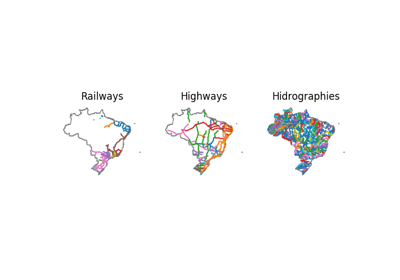
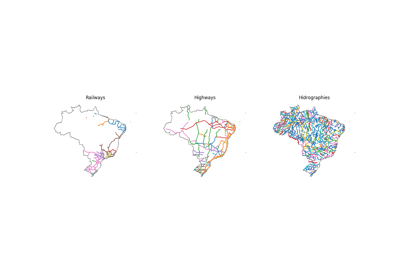
updated docs

Changed region(s): [[0.66, 0.3143, 0.87, 0.6286], [0.39, 0.3143, 0.6, 0.6286], [0.12, 0.3143, 0.33, 0.6286]]

diff --git a/docs/source/examples/plot_rio_de_janeiro_districts.py b/docs/source/examples/plot_rio_de_janeiro_districts.py
@@ -10,7 +10,6 @@ Rio de Janeiro (city) districts
 # We will use a `server <https://pgeo3.rio.rj.gov.br/arcgis/rest/services/>`__ that
 # provides data on the city of Rio de Janeiro. Let's, for example, plot the district
 # divisions.
-# 
 
 from mapsbr import arcgis
 
@@ -27,6 +26,11 @@ plt.title("Rio de Janeiro city districts")
 plt.gca().axis("off")
 
 ###############################################################################
+# .. note:
+#
+#    This function unfortunately is considerably unreliable and only tested
+#    in these two hosts. I'll surely put some work on improving it.
+#
 # From the same service, you could also plot some interesting things like
 # the geographical distribution of municipal hospitals.
 

diff --git a/docs/source/gallery/plot_rio_de_janeiro_districts.py b/docs/source/gallery/plot_rio_de_janeiro_districts.py
@@ -10,7 +10,6 @@ Rio de Janeiro (city) districts
 # We will use a `server <https://pgeo3.rio.rj.gov.br/arcgis/rest/services/>`__ that
 # provides data on the city of Rio de Janeiro. Let's, for example, plot the district
 # divisions.
-# 
 
 from mapsbr import arcgis
 
@@ -27,6 +26,11 @@ plt.title("Rio de Janeiro city districts")
 plt.gca().axis("off")
 
 ###############################################################################
+# .. note:
+#
+#    This function unfortunately is considerably unreliable and only tested
+#    in these two hosts. I'll surely put some work on improving it.
+#
 # From the same service, you could also plot some interesting things like
 # the geographical distribution of municipal hospitals.
 

diff --git a/docs/source/examples/plot_hidrographies_and_roads.py b/docs/source/examples/plot_hidrographies_and_roads.py
@@ -51,7 +51,7 @@ titles = ["Railways", "Highways", "Hidrographies"]
 
 import matplotlib.pyplot as plt
 
-fig, axes = plt.subplots(nrows=1, ncols=3)
+fig, axes = plt.subplots(nrows=1, ncols=3, figsize=(15, 10))
 br = ibgemaps.get_map("BR")
 for ax, transport, title in zip(axes.flat, transports, titles):
     br.plot(ax=ax, color="white", edgecolor="gray")

diff --git a/docs/source/gallery/plot_hidrographies_and_roads.py b/docs/source/gallery/plot_hidrographies_and_roads.py
@@ -51,7 +51,7 @@ titles = ["Railways", "Highways", "Hidrographies"]
 
 import matplotlib.pyplot as plt
 
-fig, axes = plt.subplots(nrows=1, ncols=3)
+fig, axes = plt.subplots(nrows=1, ncols=3, figsize=(15, 10))
 br = ibgemaps.get_map("BR")
 for ax, transport, title in zip(axes.flat, transports, titles):
     br.plot(ax=ax, color="white", edgecolor="gray")

diff --git a/docs/source/conf.py b/docs/source/conf.py
@@ -44,6 +44,7 @@ extensions = [
 sphinx_gallery_conf = {
     "examples_dirs": "examples",  # path to your example scripts
     "gallery_dirs": "gallery",  # path to where to save gallery generated output
+    'show_memory': True,
 }
 
 import warnings

diff --git a/docs/source/gallery/sg_execution_times.rst b/docs/source/gallery/sg_execution_times.rst
@@ -5,16 +5,16 @@
 
 Computation times
 =================
-**00:10.384** total execution time for **gallery** files:
+**00:10.851** total execution time for **gallery** files:
 
-+-------------------------------------------------------------------------------------------------------------------------+-----------+--------+
-| :ref:`sphx_glr_gallery_plot_hidrographies_and_roads.py` (``plot_hidrographies_and_roads.py``)                           | 00:10.384 | 0.0 MB |
-+-------------------------------------------------------------------------------------------------------------------------+-----------+--------+
-| :ref:`sphx_glr_gallery_plot_choropleth_map_population.py` (``plot_choropleth_map_population.py``)                       | 00:00.000 | 0.0 MB |
-+-------------------------------------------------------------------------------------------------------------------------+-----------+--------+
-| :ref:`sphx_glr_gallery_plot_choropleth_map_unemployment_by_state.py` (``plot_choropleth_map_unemployment_by_state.py``) | 00:00.000 | 0.0 MB |
-+-------------------------------------------------------------------------------------------------------------------------+-----------+--------+
-| :ref:`sphx_glr_gallery_plot_combining_maps.py` (``plot_combining_maps.py``)                                             | 00:00.000 | 0.0 MB |
-+-------------------------------------------------------------------------------------------------------------------------+-----------+--------+
-| :ref:`sphx_glr_gallery_plot_rio_de_janeiro_districts.py` (``plot_rio_de_janeiro_districts.py``)                         | 00:00.000 | 0.0 MB |
-+-------------------------------------------------------------------------------------------------------------------------+-----------+--------+
++-------------------------------------------------------------------------------------------------------------------------+-----------+----------+
+| :ref:`sphx_glr_gallery_plot_hidrographies_and_roads.py` (``plot_hidrographies_and_roads.py``)                           | 00:10.851 | 120.8 MB |
++-------------------------------------------------------------------------------------------------------------------------+-----------+----------+
+| :ref:`sphx_glr_gallery_plot_choropleth_map_population.py` (``plot_choropleth_map_population.py``)                       | 00:00.000 | 0.0 MB   |
++-------------------------------------------------------------------------------------------------------------------------+-----------+----------+
+| :ref:`sphx_glr_gallery_plot_choropleth_map_unemployment_by_state.py` (``plot_choropleth_map_unemployment_by_state.py``) | 00:00.000 | 0.0 MB   |
++-------------------------------------------------------------------------------------------------------------------------+-----------+----------+
+| :ref:`sphx_glr_gallery_plot_combining_maps.py` (``plot_combining_maps.py``)                                             | 00:00.000 | 0.0 MB   |
++-------------------------------------------------------------------------------------------------------------------------+-----------+----------+
+| :ref:`sphx_glr_gallery_plot_rio_de_janeiro_districts.py` (``plot_rio_de_janeiro_districts.py``)                         | 00:00.000 | 0.0 MB   |
++-------------------------------------------------------------------------------------------------------------------------+-----------+----------+

diff --git a/docs/source/index.rst b/docs/source/index.rst
@@ -11,7 +11,7 @@ MapsBR
    :caption: Contents:
 
 **mapsbr** is a Python package to help you get brazilian geospatial data
-from official sources like IBGE or ArcGIS API.
+from official sources like IBGE or an ArcGIS server.
 
 First it downloads a GeoJSON from the web with `requests <https://2.python-requests.org/en/master/>`__, which gets
 parsed by `shapely <https://shapely.readthedocs.io/en/latest/manual.html#predicates-and-relationships>`__
@@ -33,7 +33,7 @@ Main Features
 Examples
 --------
 
-Learn how to use the package in examples section:
+Learn how to use the package with examples:
 
 .. toctree:: 
 
@@ -42,7 +42,7 @@ Learn how to use the package in examples section:
 Quick Demo
 ----------
 
-As a quick demonstration, let me demonstrate how one would plot the brazilian
+As a quick demonstration, let's see how one would plot the brazilian
 map including many sub geographical levels:
 
 .. ipython:: python
@@ -81,9 +81,6 @@ Support
 -------
 
 If you like the package, give this repo a star!
-
-.. |brazilian_maps| image:: ../../figs/brazilian_maps.png
-
 
 Indices and tables
 ==================

diff --git a/docs/source/gallery/plot_rio_de_janeiro_districts.rst b/docs/source/gallery/plot_rio_de_janeiro_districts.rst
@@ -18,7 +18,6 @@ provides data on the city of Rio de Janeiro. Let's, for example, plot the distri
 divisions.
 
 
-
 .. code-block:: default
 
 
@@ -53,6 +52,11 @@ divisions.
     (-43.83036038458216, -43.06193412774771, -23.09973631742922, -22.72917666587355)
 
 
+
+.. note:
+
+   This function unfortunately is considerably unreliable and only tested
+   in these two hosts. I'll surely put some work on improving it.
 
 From the same service, you could also plot some interesting things like
 the geographical distribution of municipal hospitals.
@@ -92,7 +96,7 @@ the geographical distribution of municipal hospitals.
 
 .. rst-class:: sphx-glr-timing
 
-   **Total running time of the script:** ( 0 minutes  5.984 seconds)
+   **Total running time of the script:** ( 0 minutes  6.499 seconds)
 
 
 .. _sphx_glr_download_gallery_plot_rio_de_janeiro_districts.py:

diff --git a/docs/source/gallery/plot_hidrographies_and_roads.rst b/docs/source/gallery/plot_hidrographies_and_roads.rst
@@ -334,7 +334,7 @@ Once we have it, let's now plot it.
 
     import matplotlib.pyplot as plt
 
-    fig, axes = plt.subplots(nrows=1, ncols=3)
+    fig, axes = plt.subplots(nrows=1, ncols=3, figsize=(15, 10))
     br = ibgemaps.get_map("BR")
     for ax, transport, title in zip(axes.flat, transports, titles):
         br.plot(ax=ax, color="white", edgecolor="gray")
@@ -354,7 +354,9 @@ Once we have it, let's now plot it.
 
 .. rst-class:: sphx-glr-timing
 
-   **Total running time of the script:** ( 0 minutes  10.384 seconds)
+   **Total running time of the script:** ( 0 minutes  10.851 seconds)
+
+**Estimated memory usage:**  121 MB
 
 
 .. _sphx_glr_download_gallery_plot_hidrographies_and_roads.py:
